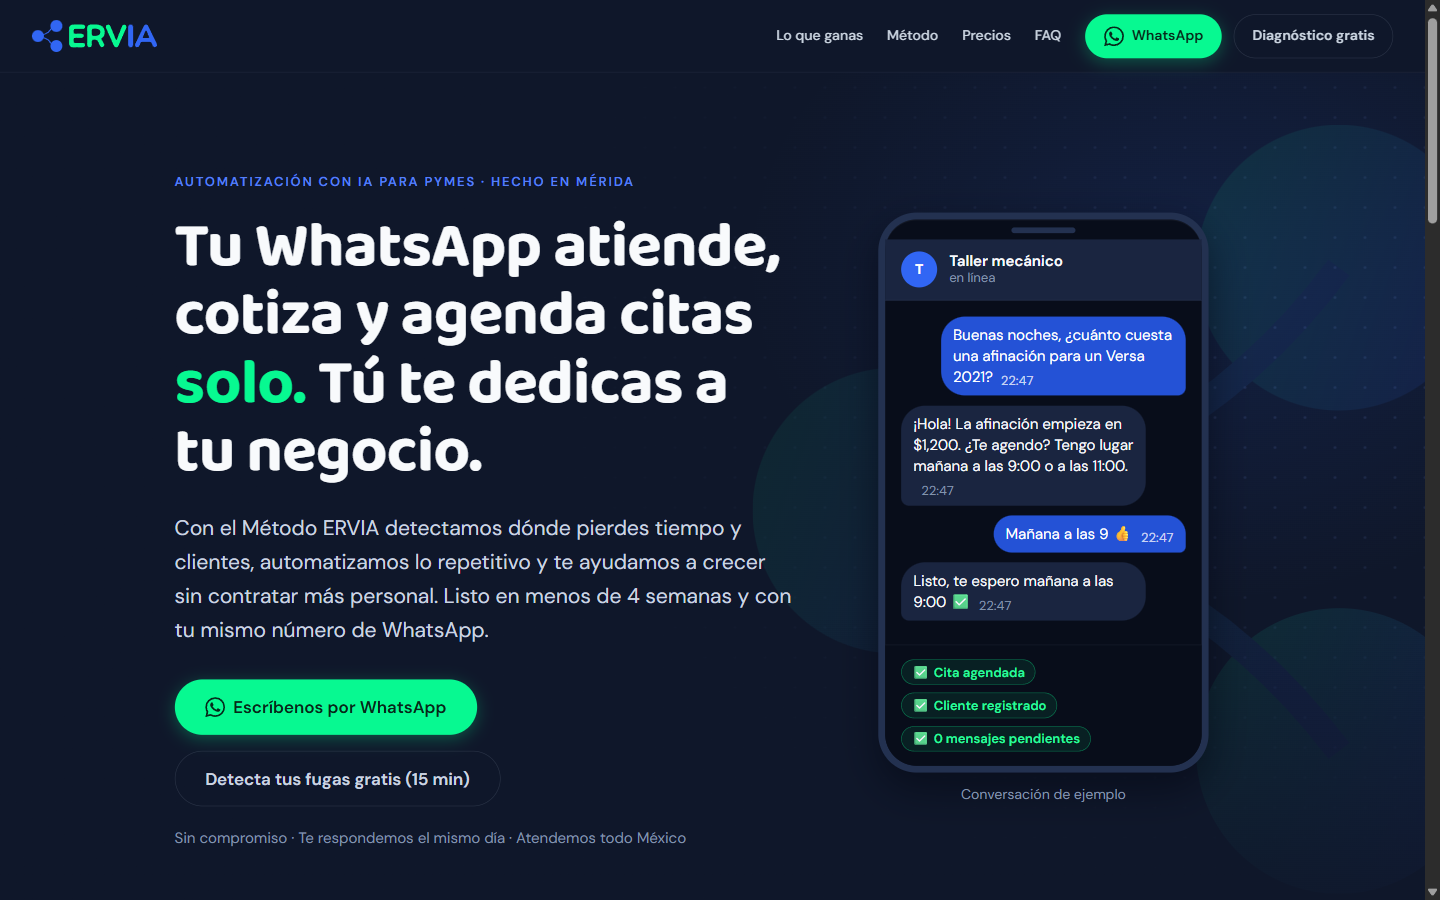
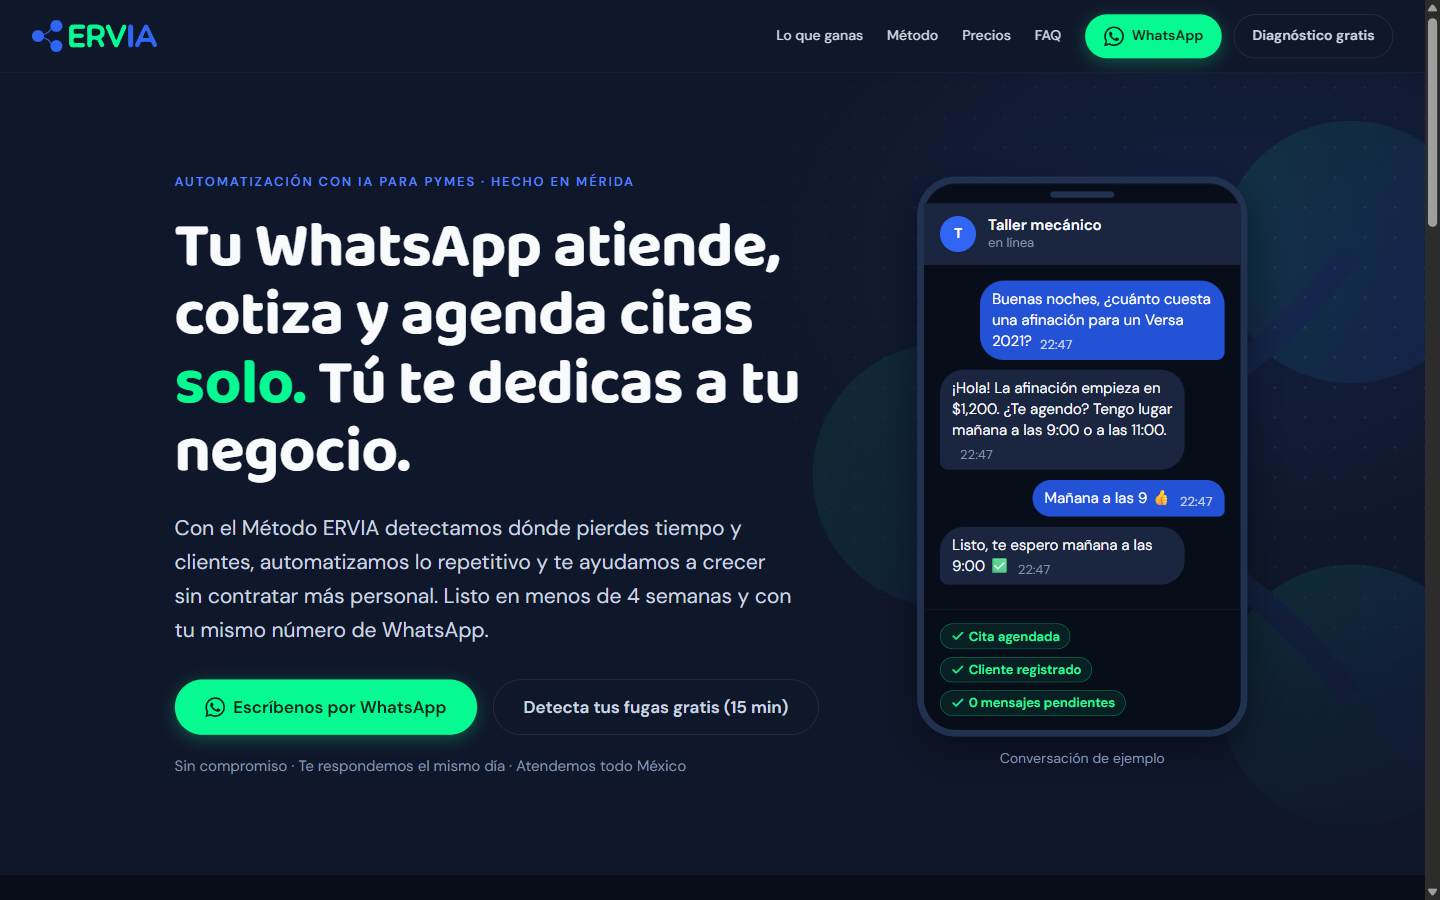
Use an inline SVG check instead of the emoji in the result chips
Lucide Check (inline SVG, --green-500, 14 px next to 13 px text), identical on every OS. The hero H1 was checked: no entry animation, opacity 0 or hydration dependency (visible with all scripts blocked), so it is left as is. The emojis inside the chat bubbles (from the audit copy) are unchanged.

diff --git a/src/components/sections/whatsapp-conversation.tsx b/src/components/sections/whatsapp-conversation.tsx
@@ -1,3 +1,4 @@
+import { Check } from "lucide-react";
 import type { CSSProperties } from "react";
 
 import type { Conversation } from "@/content/hero-conversations";
@@ -152,7 +153,7 @@ export function ConversationView({ conversation: c }: { conversation: Conversati
             className="wa-step inline-flex items-center gap-1 rounded-pill border border-border-green bg-surface-green-tint px-2.5 py-1 text-[13px] leading-tight font-semibold text-green-400"
             style={d(tl.chips[i])}
           >
-            <span aria-hidden="true">✅</span>
+            <Check aria-hidden="true" className="size-3.5 shrink-0 text-green-500" strokeWidth={3} />
             {r}
           </li>
         ))}
